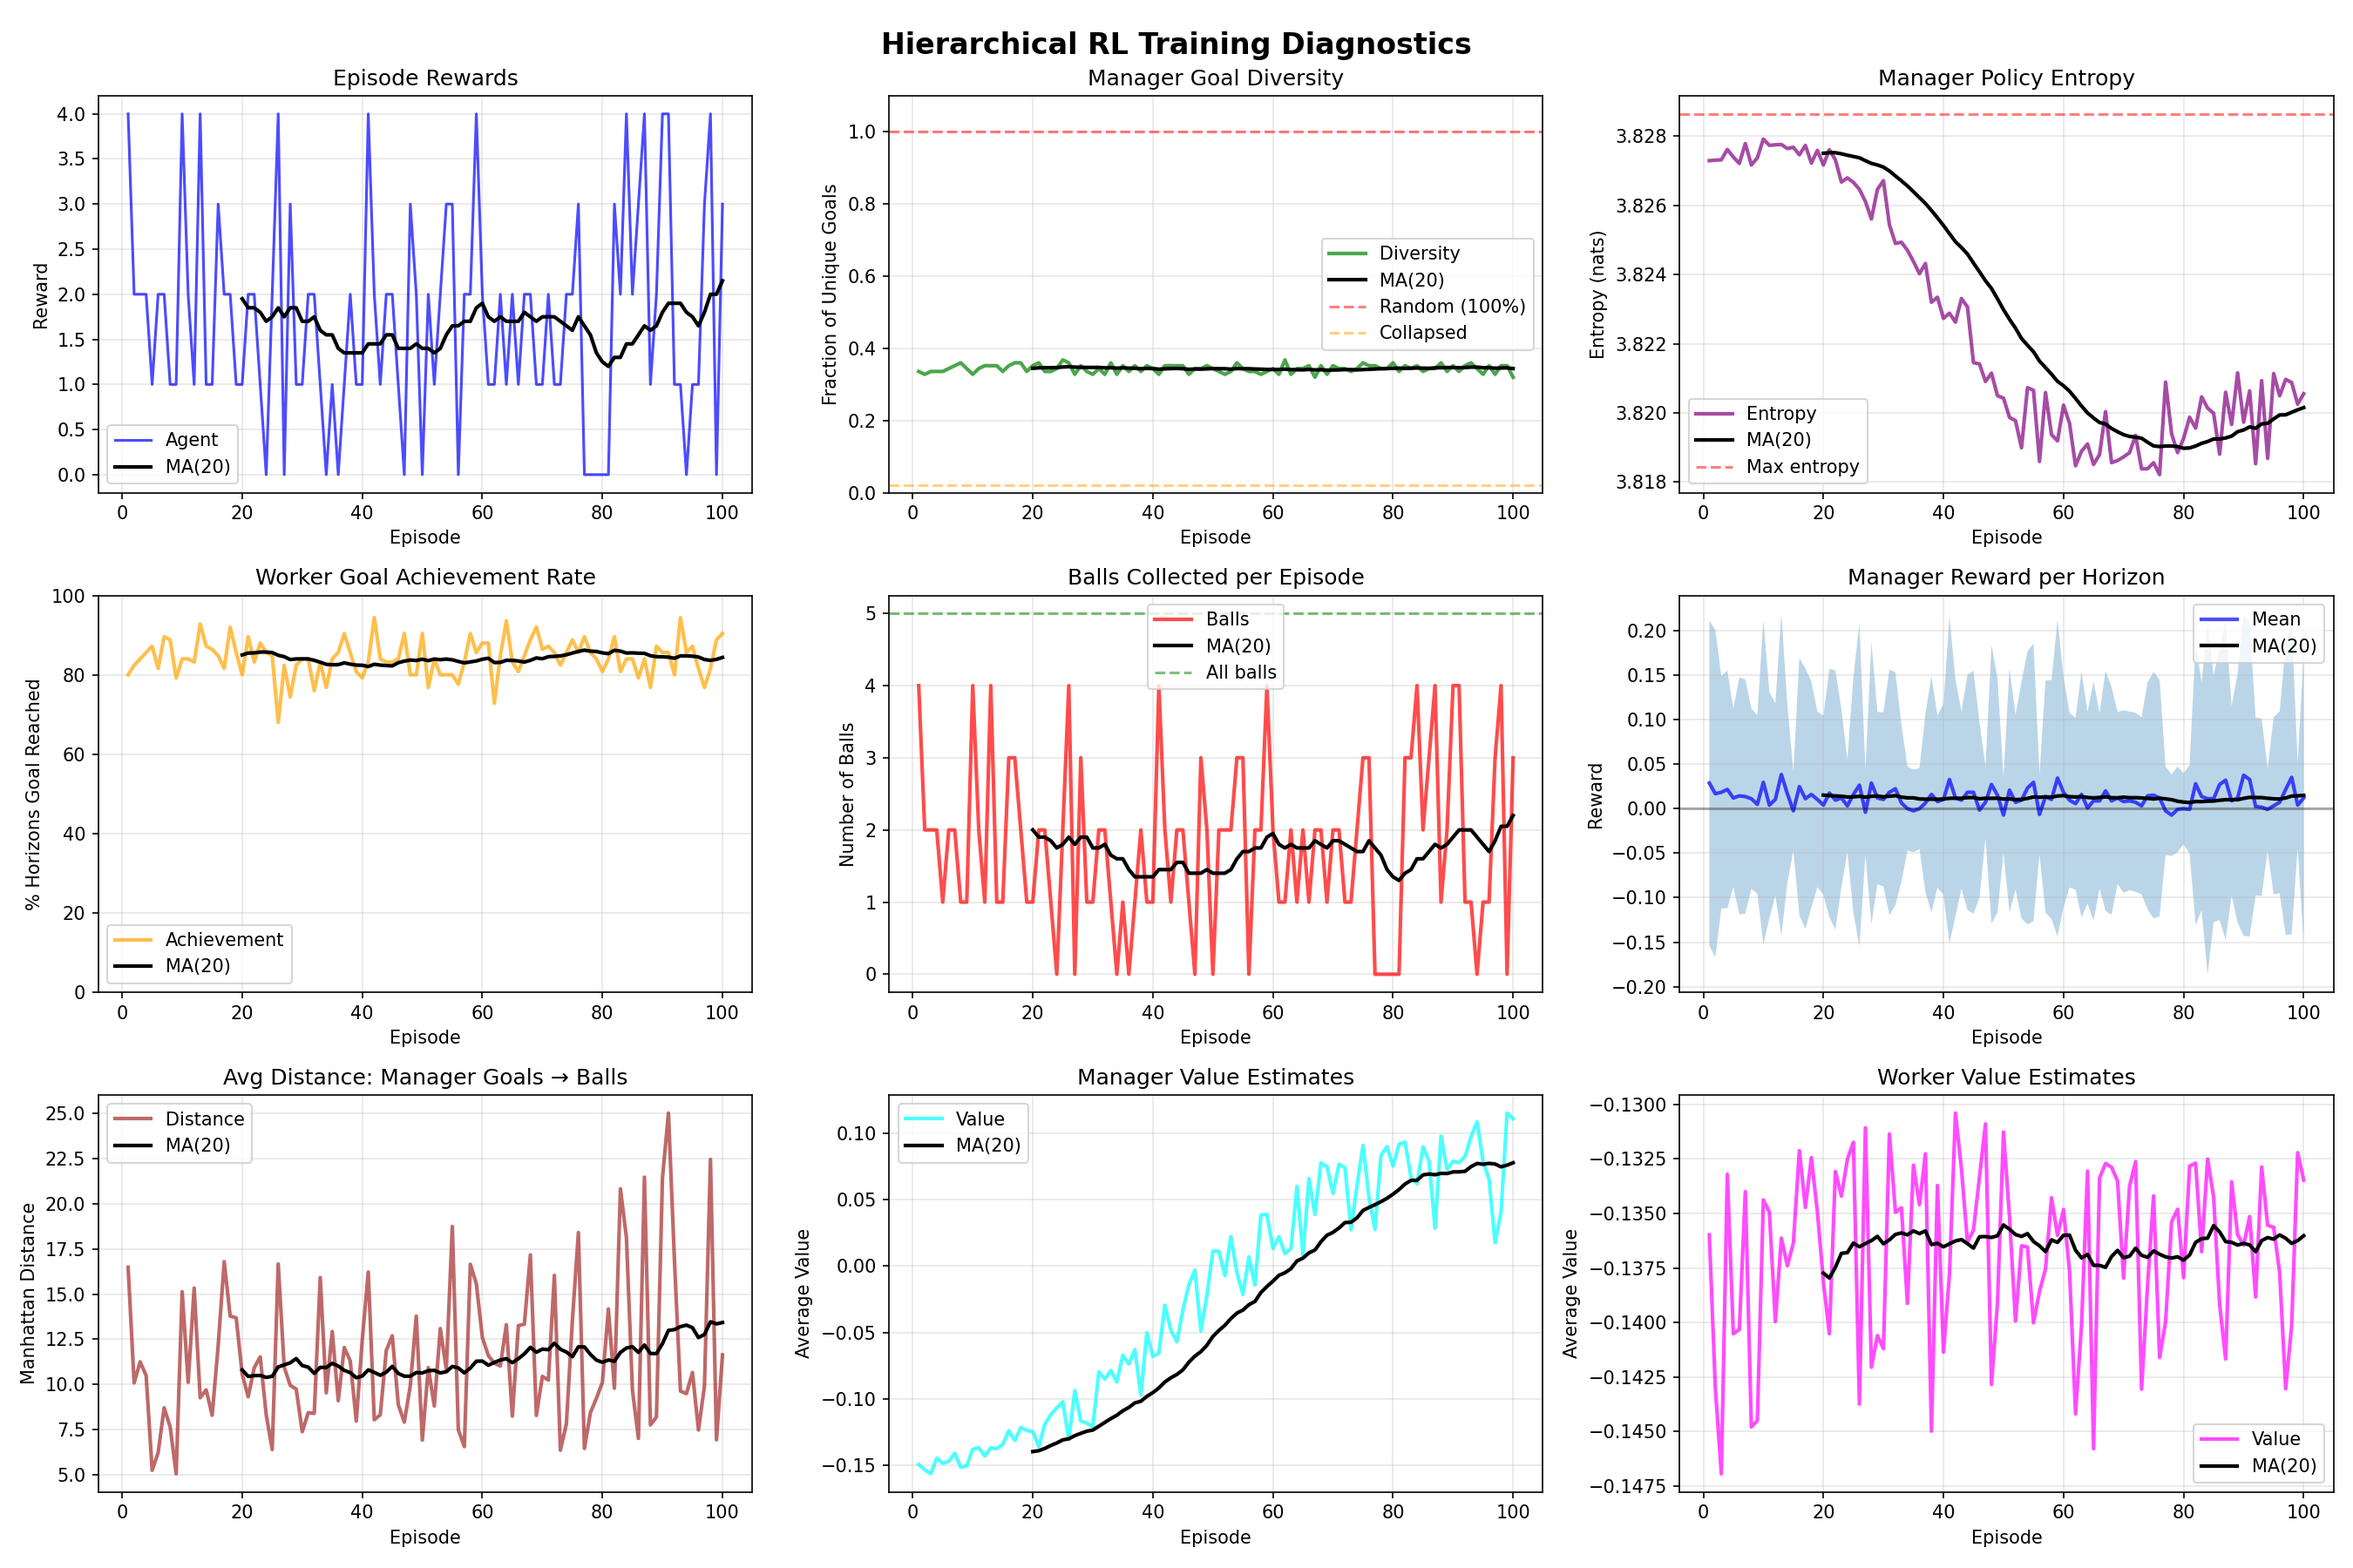
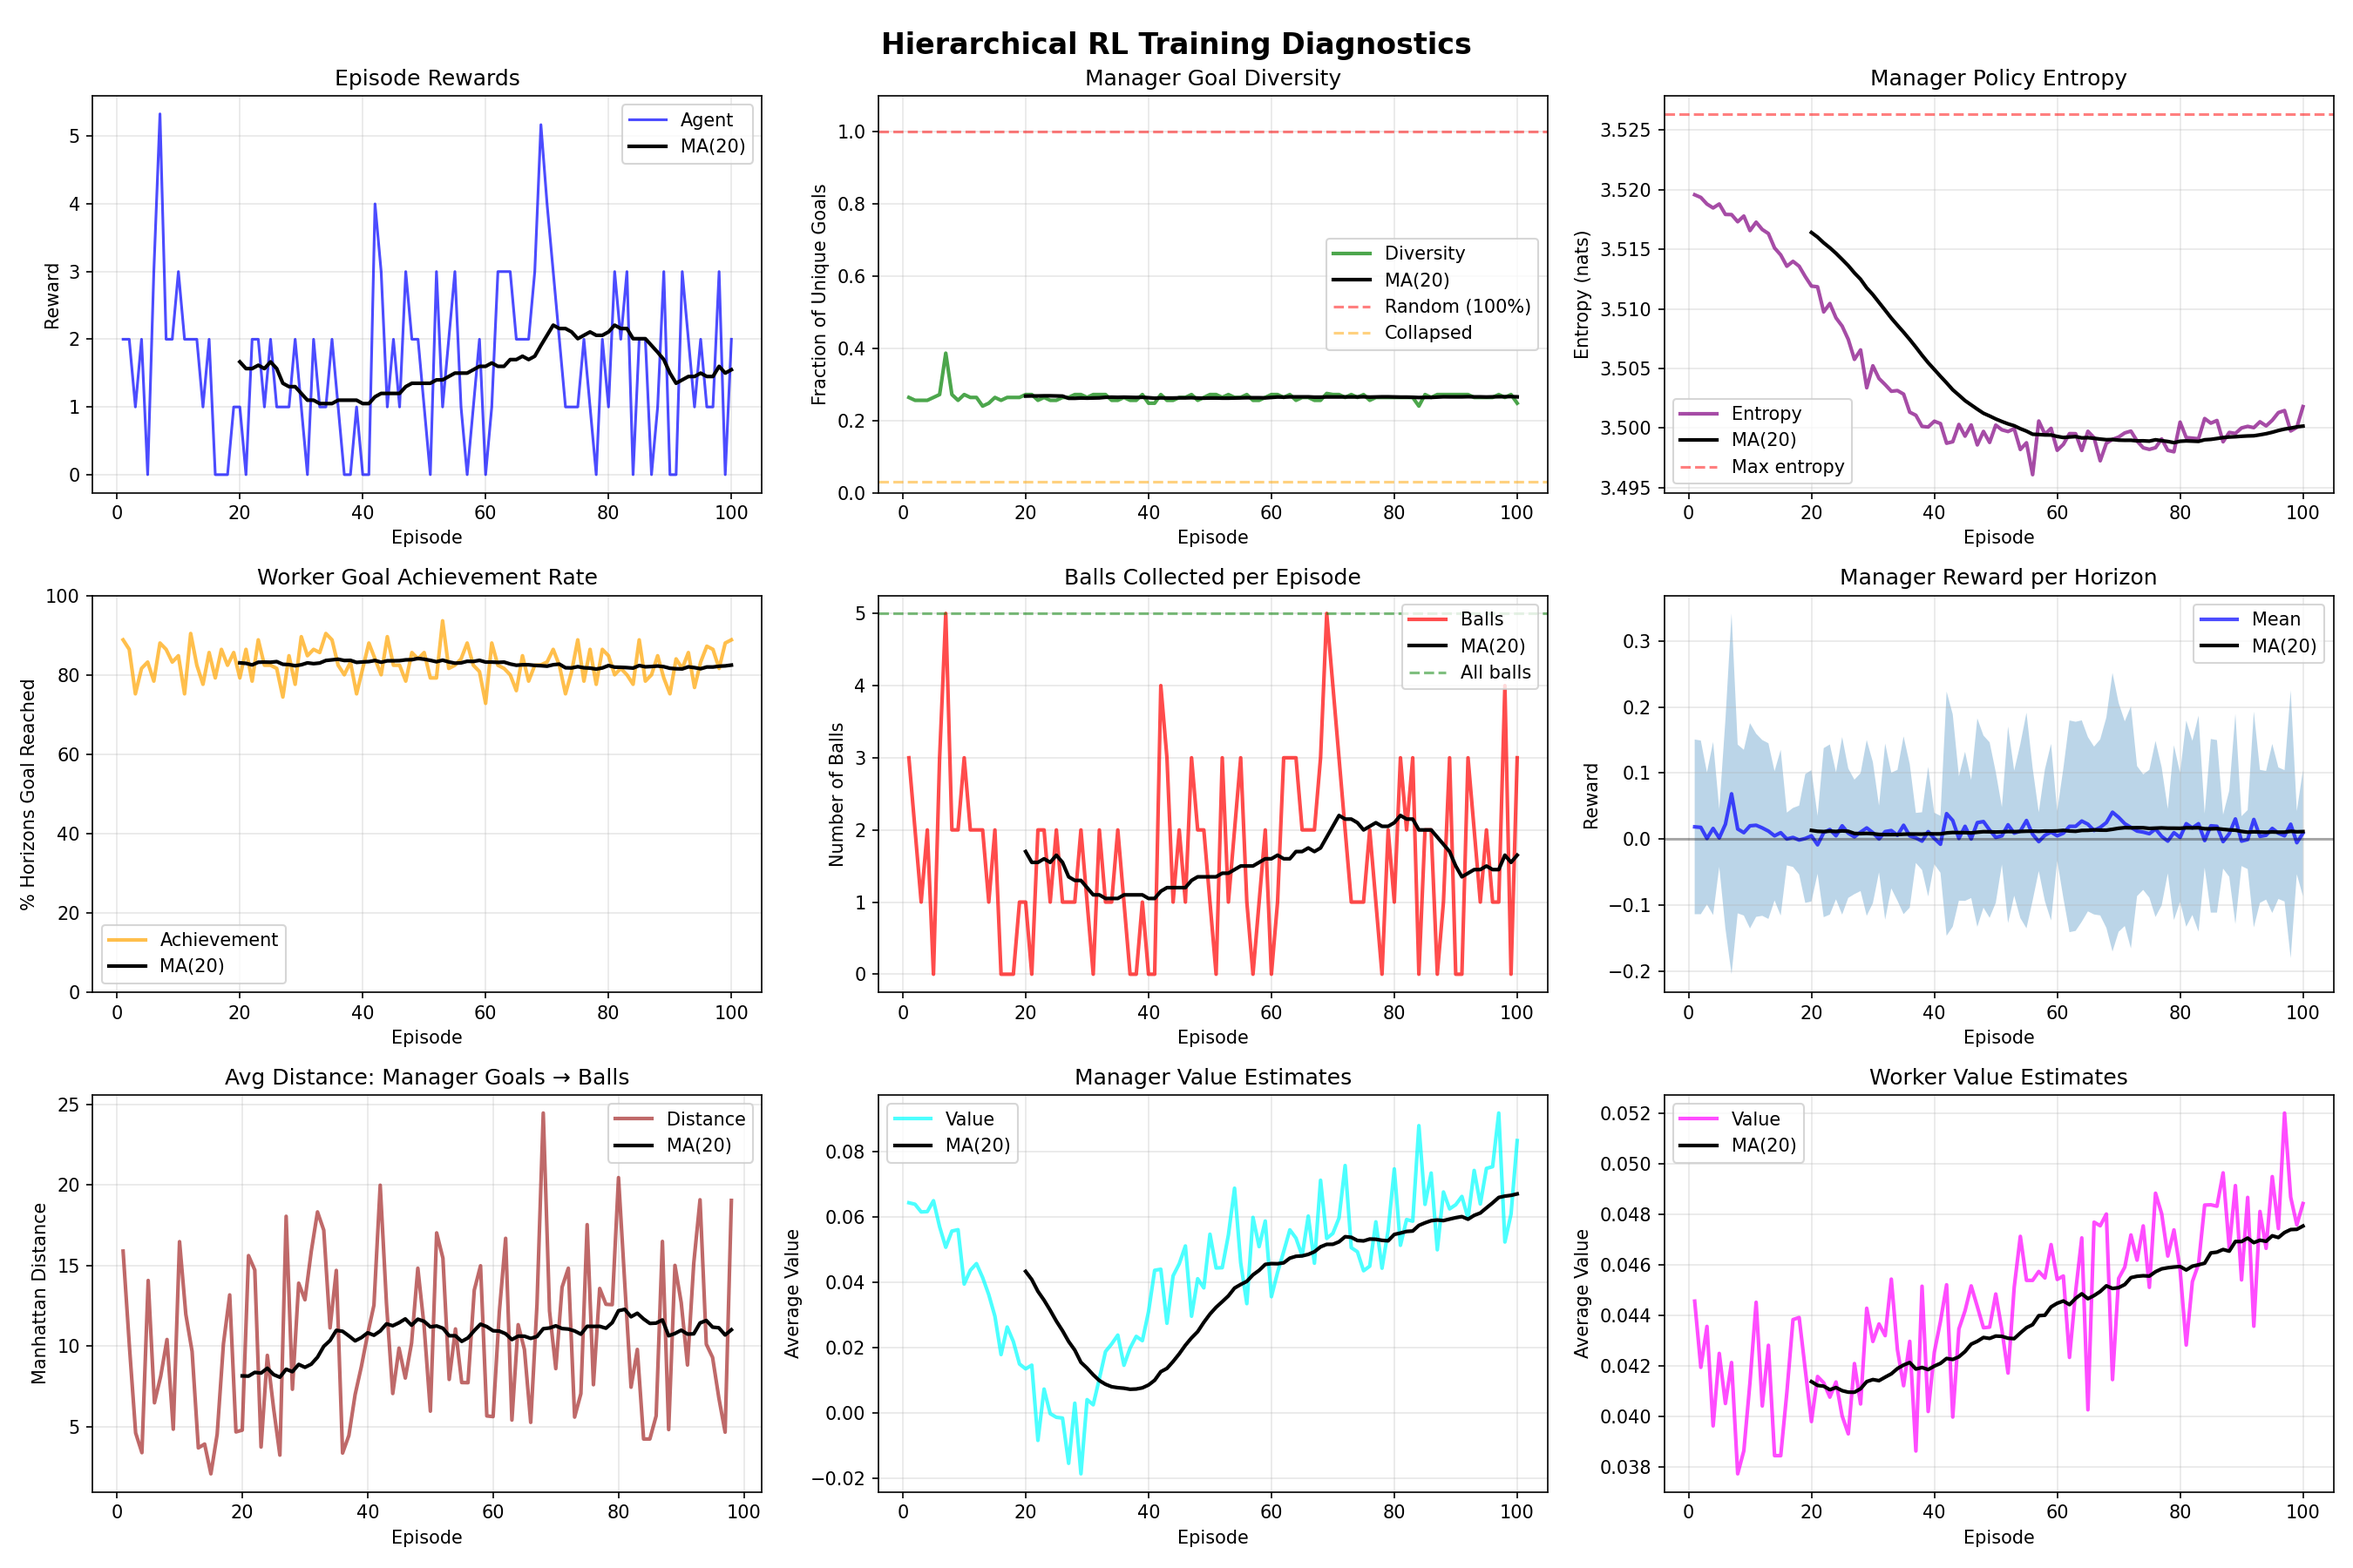
-Complete rewards and flags

diff --git a/main.py b/main.py
@@ -862,7 +862,9 @@ externalconfig = {
         'device': 'cuda'  # <-- ADD THIS: 'cpu' or 'cuda'
     }
 
-def train_full_phase1_phase2(config=externalconfig):
+fast_training_toggle=True
+
+def train_full_phase1_phase2(config=externalconfig,fast_training=fast_training_toggle):
     """Complete training with comprehensive diagnostics."""
     # Hyperparameters setted up in externalconfig
 
@@ -896,7 +898,8 @@ def train_full_phase1_phase2(config=externalconfig):
     start_time = time.time()
     
     pivotal_states, world_graph, stat_buffer = alternating_training_loop(
-        env, policy, vae_system, buffer, max_iterations=config['phase1_iterations']
+        env, policy, vae_system, buffer, max_iterations=config['phase1_iterations'],
+        fast_training=fast_training
     )
     
     phase1_time = time.time() - start_time
@@ -944,9 +947,7 @@ def train_full_phase1_phase2(config=externalconfig):
     manager, worker, env, 
     horizon=config['manager_horizon'],
     diagnostic_interval=config['diagnostic_interval'],  # NEW
-    diagnostic_checkstart=config['diagnostic_checkstart'],
-    managershaping=True
-    )
+    diagnostic_checkstart=config['diagnostic_checkstart'])
     
     print("\nPHASE 2: Hierarchical Training")
     

diff --git a/local_networks/hierarchical_system.py b/local_networks/hierarchical_system.py
@@ -1231,6 +1231,7 @@ class HierarchicalTrainer:
             'episode_rewards': []
         }
 
+        self.shaping_weight=0.5
         self.manhattan_distance_rew_shaping=workershaping
         self.manager_reward_shaping=managershaping
     
@@ -1391,7 +1392,7 @@ class HierarchicalTrainer:
                 # Add Manhattan Shaping
 
                 if self.manhattan_distance_rew_shaping:
-                    worker_reward += progress_bonus  
+                    worker_reward += progress_bonus * self.shaping_weight
                 
                 # NEW: Track if Worker reached goal
                 if worker_reward > 0:
